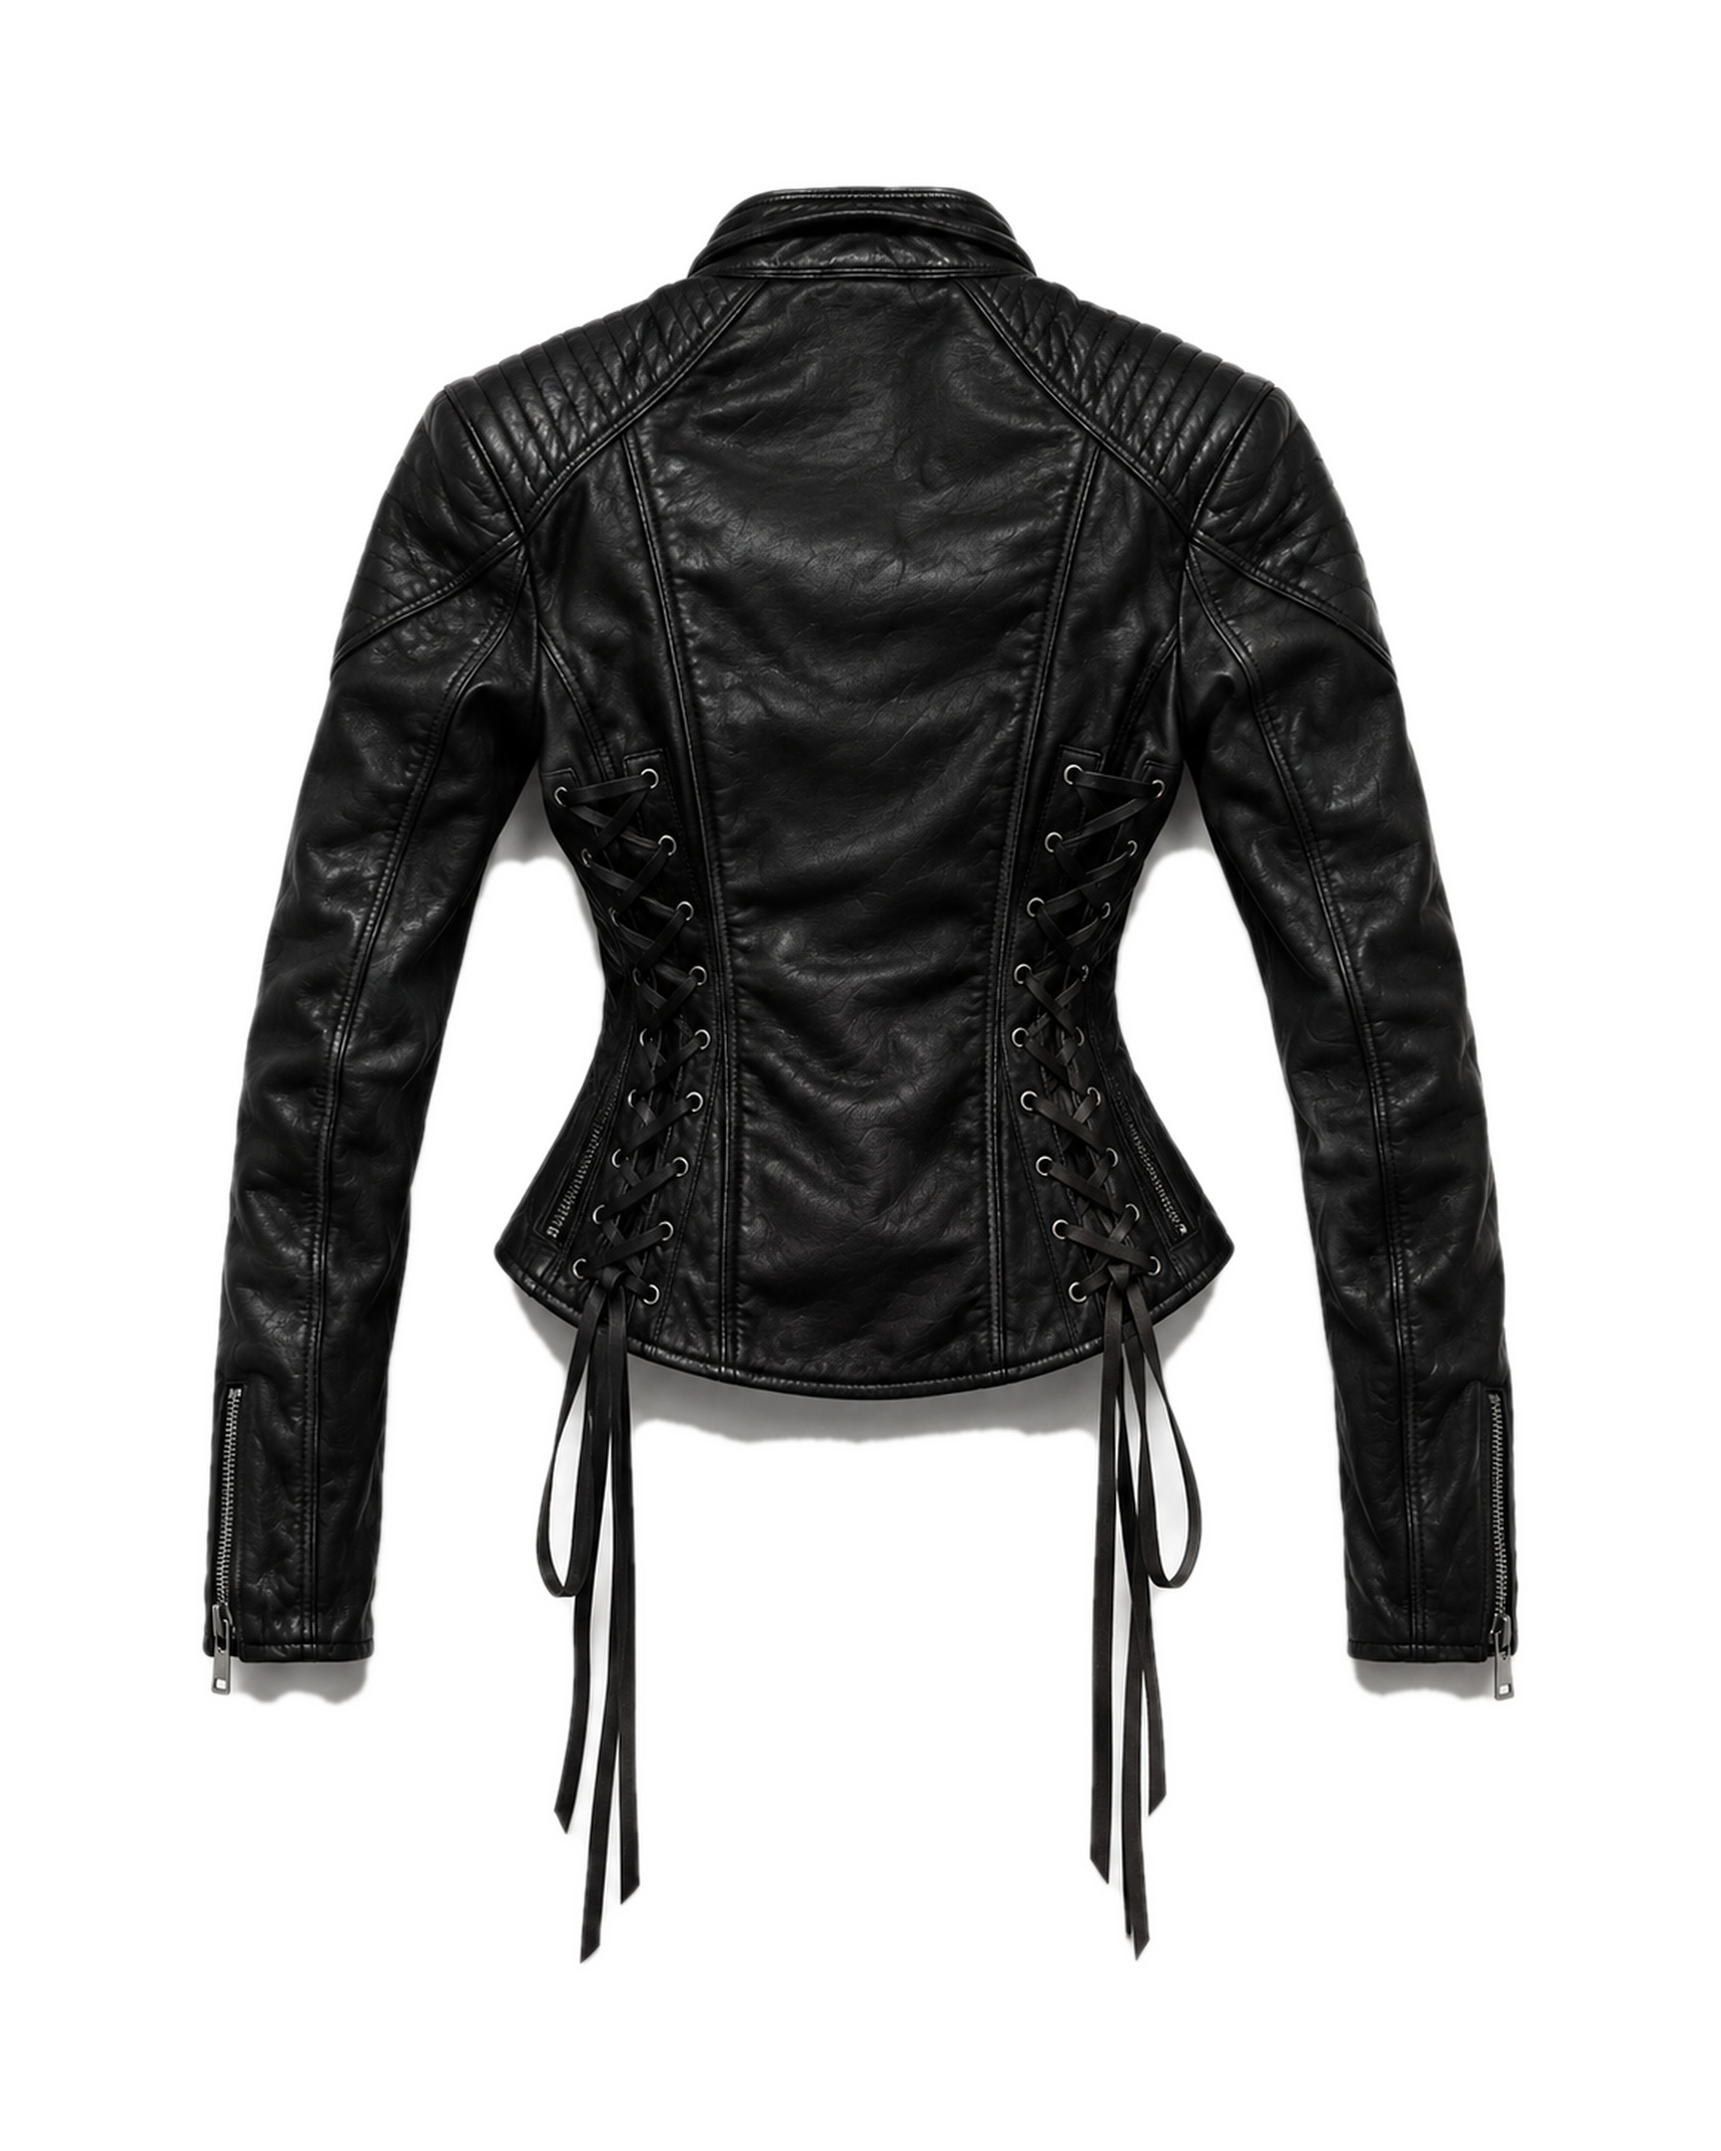
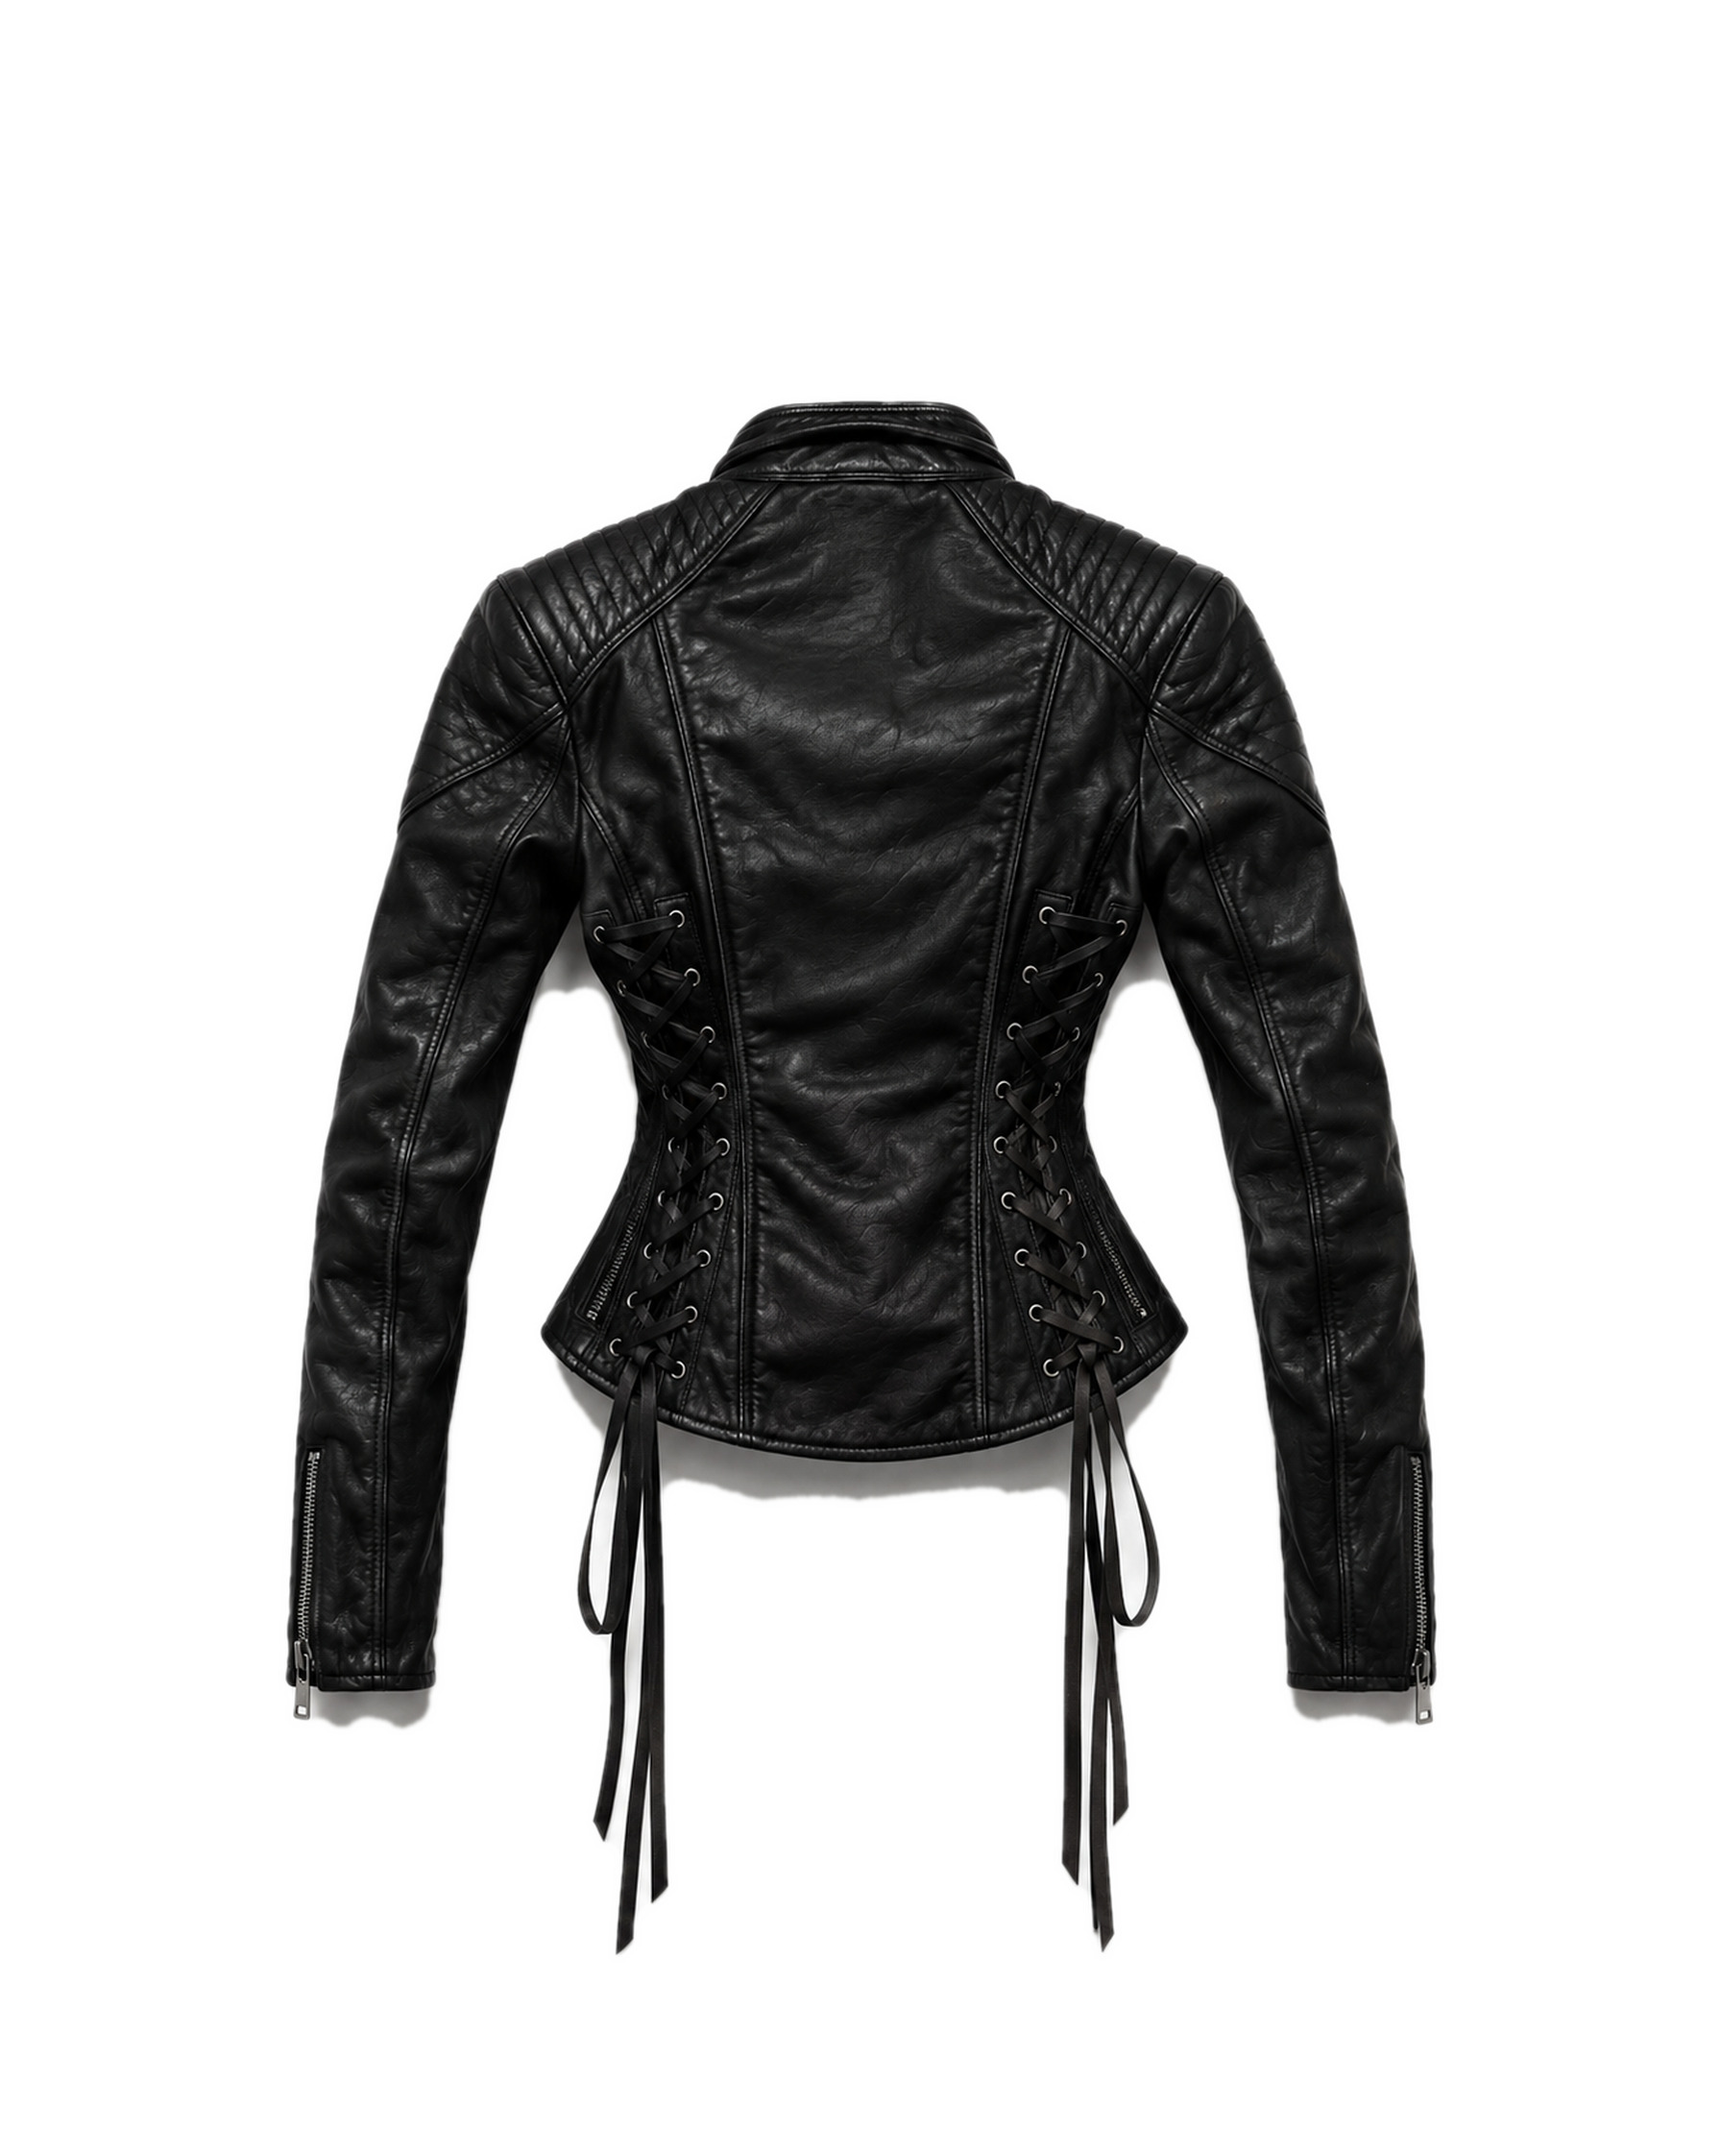
Media: Nocturnal reframed on the jacket body so it sits level with the other pieces
Claude-Session: https://claude.ai/code/session_01QScyZqKeqX7ZnCnb2t4eEm

Changed region(s): [[0.0938, 0.0625, 0.9062, 0.9062]]

diff --git a/shopify/media/framed45/nov9b/level.py b/shopify/media/framed45/nov9b/level.py
@@ -1,0 +1,36 @@
+"""Nocturnal reframe: centre the jacket's body (collar to cuffs), not the ties hanging below it.
+Body = rows whose garment width is over 25% of the widest row. The body is scaled to a set share of the frame
+height and its centre placed at a set height; the ties simply hang below it."""
+import sys, numpy as np, cv2
+from PIL import Image
+sys.path.insert(0, '.')
+W, H = 1792, 2240
+def load(p): return np.asarray(Image.open(p).convert("RGB")).astype(np.float32)
+src = {"front": "originals/nocturnal-front.png", "back": "originals/nocturnal-back.png"}
+BODY_H, CENTRE_Y = float(sys.argv[1]), float(sys.argv[2])
+import importlib.util
+spec = importlib.util.spec_from_file_location("f2", "frame2.py")
+# reuse the helpers without running the job loop
+code = open("frame2.py").read().split("jobs = json.load")[0]
+ns = {}; exec(code, ns)
+scale = None
+for side in ["front", "back"]:
+    rgb, wp = ns["white_point"](load(src[side]))
+    sil = ns["silhouette"](rgb, 150, 31)
+    a = cv2.GaussianBlur(sil.astype(np.float32), (0, 0), 1.5)[..., None]
+    rgb = rgb * a + 255 * (1 - a)
+    rows = sil.sum(1); mx = rows.max()
+    body_rows = np.where(rows > 0.25 * mx)[0]
+    y0, y1 = body_rows.min(), body_rows.max()
+    body_cols = np.where(sil[y0:y1 + 1].any(0))[0]
+    x0, x1 = body_cols.min(), body_cols.max()
+    ys_all = np.where(sil.any(1))[0]
+    if scale is None: scale = BODY_H * H / (y1 - y0)          # the back uses the front's scale
+    im = Image.fromarray(np.clip(rgb, 0, 255).astype(np.uint8))
+    im = im.resize((round(im.width * scale), round(im.height * scale)), Image.LANCZOS)
+    cx = (x0 + x1) / 2 * scale; cy = (y0 + y1) / 2 * scale
+    canvas = Image.new("RGB", (W, H), (255, 255, 255))
+    canvas.paste(im, (round(W / 2 - cx), round(CENTRE_Y * H - cy)))
+    canvas.save(f"nocturnal-{side}.jpg", quality=92, subsampling=0, optimize=True, progressive=True)
+    top = (CENTRE_Y * H - cy + ys_all.min() * scale) / H; bottom = (CENTRE_Y * H - cy + ys_all.max() * scale) / H
+    print(f"{side}: scale {scale:.3f}  body {(y1-y0)*scale/H:.3f}H  top {top:.3f}  ties end {bottom:.3f}  width {(x1-x0)*scale/W:.3f}W")
